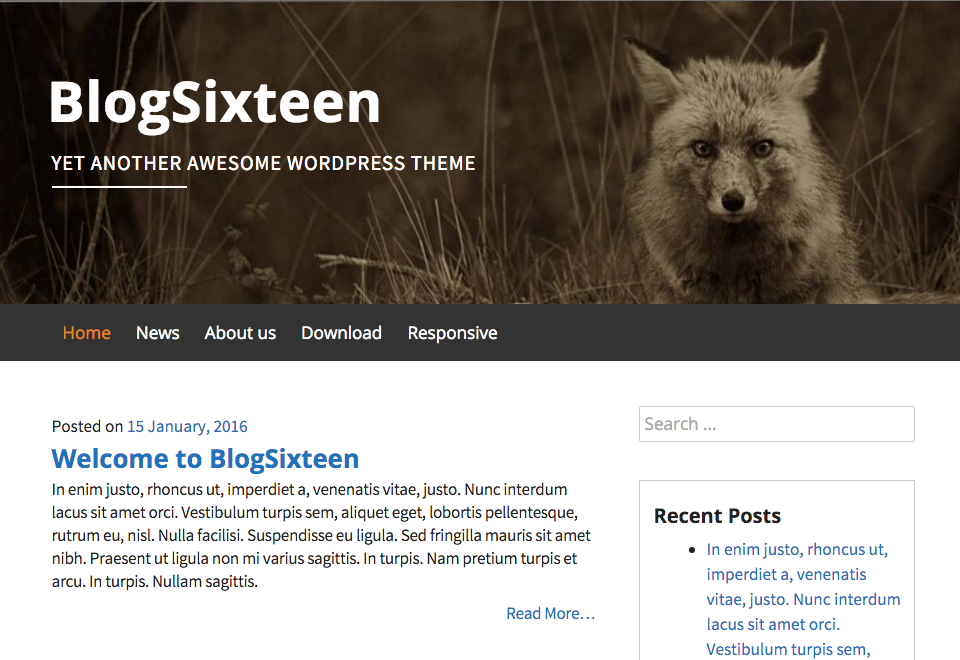
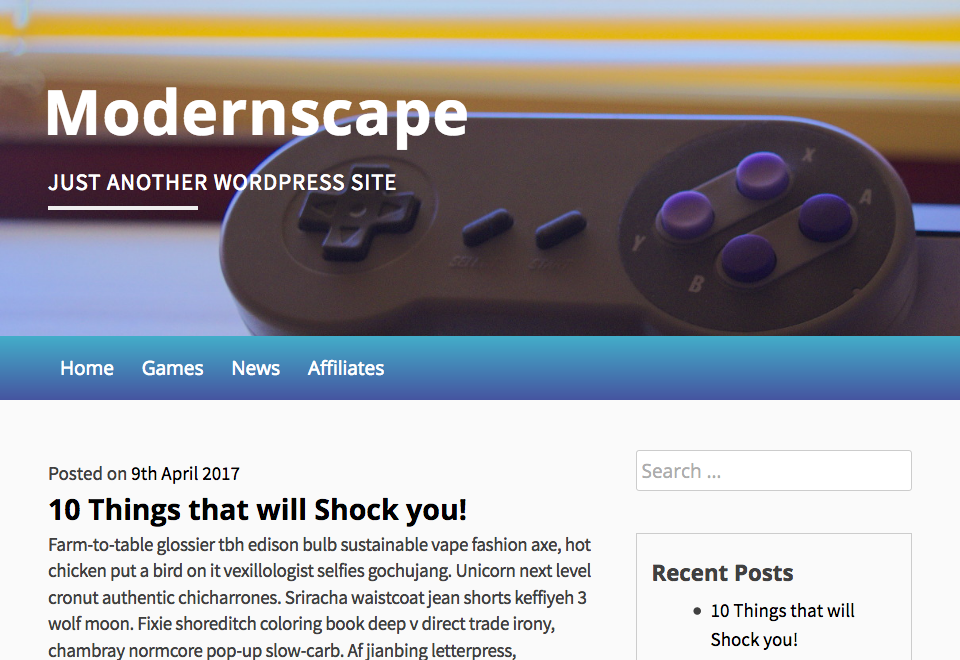
Modifications ported over.
Header changed, support for AAP. Footer includes a new menu. 404 personality removed and CSS quickies added (need changing).

diff --git a/style.css b/style.css
@@ -1151,3 +1151,33 @@ blockquote p {
 	text-align: right;
 	margin-top: 10px;
 }
+
+/*--------------------------------------------------------------
+# Modifications (pending sheet integration)
+--------------------------------------------------------------*/
+
+.main-navigation ul ul {
+	top: 2.25em;
+}
+
+/* Give the menu a colour scheme based on the PS2 logo */
+.main-navigation, #catapult-cookie-bar {
+	background: #43adc9;
+	background: -moz-linear-gradient(top, #43adc9 0%, #4555a0 100%);
+	background: -webkit-linear-gradient(top, #43adc9 0%,#4555a0 100%);
+	background: linear-gradient(to bottom, #43adc9 0%,#4555a0 100%);
+	filter: progid:DXImageTransform.Microsoft.gradient( startColorstr='#43adc9', endColorstr='#4555a0',GradientType=0 );
+}
+
+ins {
+    background: rgba(255, 255, 255, 0);
+}
+
+.reviv-adlabel {
+    text-align: center;
+    font-size: 0.8em;
+}
+
+#wp-admin-bar-advanced_ads_ad_health, #wp-admin-bar-archiver, #wp-admin-bar-wpseo-menu {
+    display: none;
+}

diff --git a/404.php b/404.php
@@ -14,40 +14,11 @@ get_header(); ?>
 
 			<section class="error-404 not-found">
 				<header class="page-header">
-					<h1 class="page-title"><?php esc_html_e( 'Oops! That page can&rsquo;t be found.', 'blogsixteen' ); ?></h1>
+					<h1 class="page-title"><?php esc_html_e( 'That page cannot be found.', 'blogsixteen' ); ?></h1>
 				</header><!-- .page-header -->
 
 				<div class="page-content">
-					<p><?php esc_html_e( 'It looks like nothing was found at this location. Maybe try one of the links below or a search?', 'blogsixteen' ); ?></p>
-
-					<?php get_search_form(); ?>
-
-					<?php the_widget( 'WP_Widget_Recent_Posts' ); ?>
-
-					<?php if ( blogsixteen_categorized_blog() ) : // Only show the widget if site has multiple categories. ?>
-					<div class="widget widget_categories">
-						<h2 class="widget-title"><?php esc_html_e( 'Most Used Categories', 'blogsixteen' ); ?></h2>
-						<ul>
-						<?php
-							wp_list_categories( array(
-								'orderby'    => 'count',
-								'order'      => 'DESC',
-								'show_count' => 1,
-								'title_li'   => '',
-								'number'     => 10,
-							) );
-						?>
-						</ul>
-					</div><!-- .widget -->
-					<?php endif; ?>
-
-					<?php
-						/* translators: %1$s: smiley */
-						$archive_content = '<p>' . sprintf( esc_html__( 'Try looking in the monthly archives. %1$s', 'blogsixteen' ), convert_smilies( ':)' ) ) . '</p>';
-						the_widget( 'WP_Widget_Archives', 'dropdown=1', "after_title=</h2>$archive_content" );
-					?>
-
-					<?php the_widget( 'WP_Widget_Tag_Cloud' ); ?>
+					<p><?php esc_html_e( 'It looks like nothing was found at this location. Please use the menu above to find what you were looking for.', 'blogsixteen' ); ?></p>
 
 				</div><!-- .page-content -->
 			</section><!-- .error-404 -->

diff --git a/footer.php b/footer.php
@@ -16,11 +16,26 @@
 	<footer id="colophon" class="site-footer" role="contentinfo">
 
 		<div class="footer-content">
-			<div class="site-info">
-				<a href="<?php echo esc_url( __( 'https://wordpress.org/', 'blogsixteen' ) ); ?>"><?php printf( esc_html__( '// Proudly powered by %s', 'blogsixteen' ), 'WordPress' ); ?></a>
-				<span class="sep"> | </span>
-				<?php printf( esc_html__( 'Theme: %1$s', 'blogsixteen' ), 'blogsixteen', ''); ?>
-			</div><!-- .site-info -->
+			<div class="site-info" style="text-align:center"> Copyright © <?php echo date("Y") . " " . get_bloginfo('name', 'Display'); ?><br> 
+				<?php 
+					$locations = get_nav_menu_locations(); 
+					if($locations[ 'footer-menu' ] !== 0) {
+						$items = wp_get_nav_menu_items( wp_get_nav_menu_object( $locations[ 'footer-menu' ] )->term_id );
+					} else {
+						$items = false;
+					}					
+
+					if ($items !== false) {
+						$count = count($items);
+						foreach ( $items as $key => $item ) {
+							echo ' <a href="'.$item->url.'">'.$item->title.'</a> ';
+							if($key != $count - 1) {
+								echo '-';
+							}
+						}
+					}
+				?>
+			</div>
 			<?php wp_footer(); ?>
 		</div>
 

diff --git a/header.php b/header.php
@@ -14,6 +14,7 @@
 <head>
 <meta charset="<?php bloginfo( 'charset' ); ?>">
 <meta name="viewport" content="width=device-width, initial-scale=1">
+<meta name="theme-color" content="#C500FF">
 <link rel="profile" href="http://gmpg.org/xfn/11">
 <link rel="pingback" href="<?php bloginfo( 'pingback_url' ); ?>">
 <?php wp_head(); ?>
@@ -47,3 +48,8 @@
 	<div id="page" class="hfeed site">
 
 	<div id="content" class="site-content">
+        <?php 
+		if (function_exists('the_ad_placement')) {
+			the_ad_placement('above-title'); 
+		}
+		?>

diff --git a/functions.php b/functions.php
@@ -161,6 +161,19 @@ function blogsixteen_add_editor_styles() {
 add_action( 'admin_init', 'blogsixteen_add_editor_styles' );
 
 /**
+ * Register footer menu
+ */
+function register_my_menus() {
+  register_nav_menus(
+    array(
+      'footer-menu' => __( 'Footer Menu' )
+    )
+  );
+}
+add_action( 'init', 'register_my_menus' );
+
+
+/**
  * Custom template tags for this theme.
  */
 require get_template_directory() . '/inc/template-tags.php';
